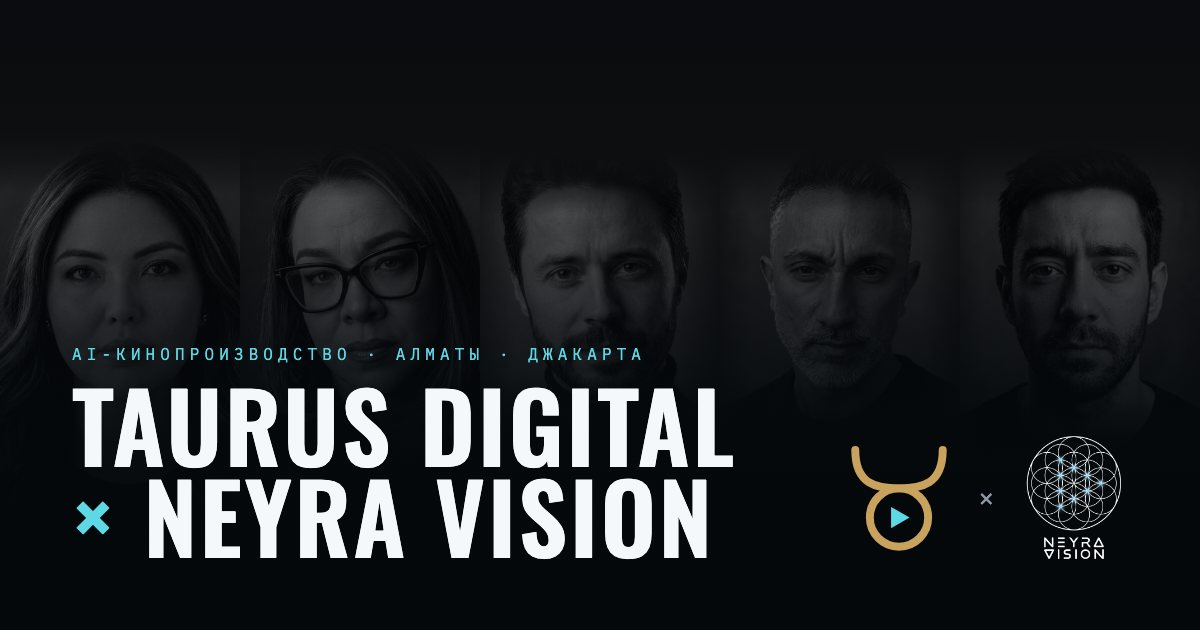
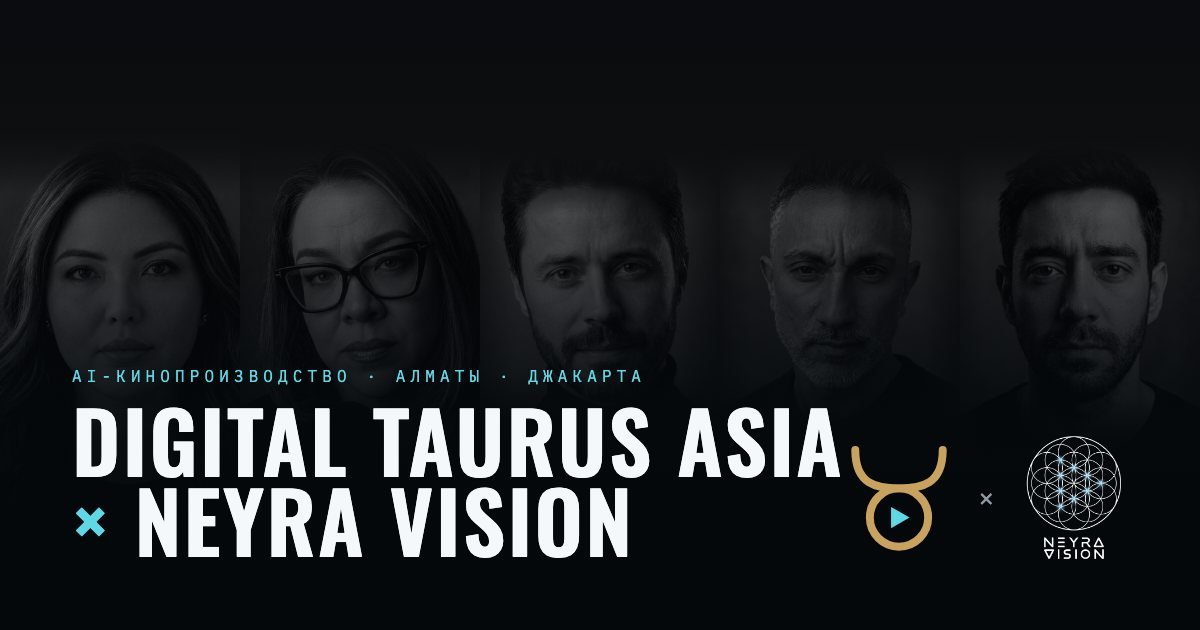
Бренд переименован: Digital Taurus Asia (везде на /team/, OG-картинка, лок-апы логотипа)

Changed region(s): [[0.0617, 0.5429, 0.7092, 0.9048]]

diff --git a/team/index.html b/team/index.html
@@ -3,11 +3,11 @@
 <head>
 <meta charset="utf-8">
 <meta name="viewport" content="width=device-width, initial-scale=1">
-<title>Taurus Digital × Neyra Vision</title>
-<meta name="description" content="Кино, сериалы и реклама, где живые съёмки и AI-производство идут в одном графике и бюджете. Taurus Digital (Алматы) и Neyra Vision — команда, фильмы, как работаем.">
-<meta property="og:title" content="Taurus Digital × Neyra Vision">
+<title>Digital Taurus Asia × Neyra Vision</title>
+<meta name="description" content="Кино, сериалы и реклама, где живые съёмки и AI-производство идут в одном графике и бюджете. Digital Taurus Asia (Алматы) и Neyra Vision — команда, фильмы, как работаем.">
+<meta property="og:title" content="Digital Taurus Asia × Neyra Vision">
 <meta property="og:description" content="Живые съёмки и AI-производство в одной команде. Алматы · Джакарта.">
-<meta property="og:image" content="https://neyra.vision/team/assets/og-team.jpg">
+<meta property="og:image" content="https://neyra.vision/team/assets/og-team.jpg?v=2">
 <meta property="og:url" content="https://neyra.vision/team/">
 <meta name="twitter:card" content="summary_large_image">
 <meta name="robots" content="noindex">
@@ -47,7 +47,7 @@
   .bar nav a{text-decoration:none;transition:color .2s}
   .bar nav a:hover{color:var(--paper)}
   @media (max-width:860px){.bar nav a:not([href="#contact"]){display:none}}
-  @media (max-width:520px){.bar .brand{letter-spacing:.2em;font-size:12.5px}.bar .brand b{display:none}}
+  @media (max-width:520px){.bar .brand{letter-spacing:.14em;font-size:11.5px}.bar .brand b{display:none}}
 
   /* ===== HERO ===== */
   .hero{position:relative;min-height:88svh;display:flex;align-items:flex-end;isolation:isolate;overflow:hidden;padding-top:90px}
@@ -58,9 +58,11 @@
       linear-gradient(180deg,rgba(5,8,11,.7) 0%,rgba(5,8,11,.35) 30%,rgba(5,8,11,.9) 72%,var(--ink) 100%)}
   .hero .inner{width:100%;max-width:1180px;margin:0 auto;padding:0 24px 8vh}
   .kicker{font-family:var(--mono);font-size:12px;letter-spacing:.32em;text-transform:uppercase;color:var(--mute)}
-  .hero h1{font-family:var(--disp);font-weight:600;font-size:clamp(46px,9.4vw,138px);line-height:.92;letter-spacing:.03em;text-transform:uppercase;margin:16px 0 18px;color:#f4f8fa}
+  .hero h1{font-family:var(--disp);font-weight:600;font-size:clamp(40px,8vw,118px);line-height:.92;letter-spacing:.03em;text-transform:uppercase;margin:16px 0 18px;color:#f4f8fa}
   .hero h1 .x{color:var(--cyan);font-weight:400}
-  .hero h1 > span{display:block}
+  .hero h1 > span{display:block;white-space:nowrap}
+  .hero h1 .sp{display:inline}
+  @media (max-width:560px){.hero h1 > span{white-space:normal}.hero h1 .sp{display:block;height:0}}
   .logline{max-width:40em;font-size:clamp(17px,2vw,21px);color:#d3dbe0}
 
   /* ===== STRUCTURE ===== */
@@ -244,7 +246,7 @@
 <body class="no-js grain">
 
 <div class="bar">
-  <a class="brand" href="#top"><img src="assets/td-znak.svg" alt=""><span>TAURUS DIGITAL <b>× NEYRA VISION</b></span></a>
+  <a class="brand" href="#top"><img src="assets/td-znak.svg" alt=""><span>DIGITAL TAURUS ASIA <b>× NEYRA VISION</b></span></a>
   <nav>
     <a href="#structure">Компании</a>
     <a href="#how">Как работаем</a>
@@ -261,10 +263,10 @@
   <div class="scrim"></div>
   <div class="inner">
     <div class="kicker">AI-кинопроизводство · Алматы · Джакарта · Сингапур</div>
-    <h1><span>Taurus Digital</span><span><span class="x">×</span> Neyra Vision</span></h1>
+    <h1><span>Digital<i class="sp"> </i>Taurus Asia</span><span><span class="x">×</span> Neyra Vision</span></h1>
     <div class="hbot">
-      <p class="logline">Кино, сериалы и реклама, где живые съёмки и AI-производство идут в одном графике и одном бюджете. Taurus Digital (Алматы) — продюсерский блок и съёмки. Neyra Vision — превиз, генерация и постпродакшн по технологии NEYRA.</p>
-      <div class="marks"><img src="assets/td-znak.svg" alt="Taurus Digital" width="96" height="100"><span class="x">×</span><img src="/assets/logo-neyra-vision.png" alt="Neyra Vision" width="120" height="120" class="nv"></div>
+      <p class="logline">Кино, сериалы и реклама, где живые съёмки и AI-производство идут в одном графике и одном бюджете. Digital Taurus Asia (Алматы) — продюсерский блок и съёмки. Neyra Vision — превиз, генерация и постпродакшн по технологии NEYRA.</p>
+      <div class="marks"><img src="assets/td-znak.svg" alt="Digital Taurus Asia" width="96" height="100"><span class="x">×</span><img src="/assets/logo-neyra-vision.png" alt="Neyra Vision" width="120" height="120" class="nv"></div>
     </div>
   </div>
 </header>
@@ -274,12 +276,12 @@
     <div class="rv">
       <div class="eyebrow">Две компании</div>
       <h2>Одна команда</h2>
-      <p class="lead">Taurus Digital — продюсерский блок: полный метр и сериалы, фонды и прокат. Neyra Vision — технология, AI-цех и международный опыт.</p>
+      <p class="lead">Digital Taurus Asia — продюсерский блок: полный метр и сериалы, фонды и прокат. Neyra Vision — технология, AI-цех и международный опыт.</p>
     </div>
     <div class="duo rv">
       <div class="co">
         <img src="assets/td-znak.svg" alt="" width="72" height="75">
-        <div class="nm">Taurus Digital</div>
+        <div class="nm">Digital Taurus Asia</div>
         <div class="tg">ТОО · Алматы · AI-продакшн</div>
         <p>AI-производство кино и видео в Казахстане. В связке — продюсерская компания <b>Taurus Asia Production</b>: «Приговор», «Қара бекіре», «Шекер», живые съёмки, фонды и прокат.</p>
         <p>Технологическая основа — платформа NEYRA по лицензии Neyra Labs.</p>
@@ -473,7 +475,7 @@
 
     <!-- Leadership -->
     <div class="grp">
-      <div class="grp-h"><h3>Руководство</h3><span>Taurus Digital × Neyra Vision</span></div>
+      <div class="grp-h"><h3>Руководство</h3><span>Digital Taurus Asia × Neyra Vision</span></div>
       <div class="people lead3">
         <div class="p">
           <div class="ph"><img src="assets/lead-anna-chakirtova.jpg" alt="Анна Чакиртова" width="720" height="720" loading="lazy"></div>
@@ -659,7 +661,7 @@
     <h2>Обсудить проект</h2>
     <p class="lead">Пришлите логлайн или сценарий, бюджетную вилку и сроки. Ответим, что можно сделать, с ориентиром по срокам и смете.</p>
     <div class="partners">
-      <img src="assets/td-znak.svg" alt="Taurus Digital" width="62" height="64"><span class="x">×</span><img src="/assets/logo-neyra-vision.png" alt="Neyra Vision" width="64" height="64">
+      <img src="assets/td-znak.svg" alt="Digital Taurus Asia" width="62" height="64"><span class="x">×</span><img src="/assets/logo-neyra-vision.png" alt="Neyra Vision" width="64" height="64">
     </div>
     <div class="btns">
       <a class="btn" href="https://t.me/mis_ter_bro" target="_blank" rel="noopener">Написать в Telegram</a>
@@ -671,7 +673,7 @@
 
 <footer>
   <div class="wrap">
-    <div class="fcol"><b>Taurus Digital</b><span>ТОО · Алматы · AI-производство кино и видео</span></div>
+    <div class="fcol"><b>Digital Taurus Asia</b><span>ТОО «Digital Taurus Asia» · Алматы · AI-производство кино и видео</span></div>
     <div class="fcol"><b>Neyra Vision Studio</b><span>Джакарта · Алматы · технология NEYRA</span></div>
     <div class="fcol"><b>Ссылки</b><span><a href="/">neyra.vision</a> · <a href="https://neyra.ai" target="_blank" rel="noopener">neyra.ai</a> · <a href="https://colibristudio.ai" target="_blank" rel="noopener">colibristudio.ai</a></span></div>
   </div>

diff --git a/brand/taurus-digital/v4/sheet.html b/brand/taurus-digital/v4/sheet.html
@@ -1,0 +1,23 @@
+<!doctype html><html lang="ru"><head><meta charset="utf-8"><title>Digital Taurus Asia · v4</title>
+<link rel="stylesheet" href="https://fonts.googleapis.com/css2?family=Oswald:wght@500;600&family=IBM+Plex+Mono&family=Space+Grotesk:wght@500;700&display=swap">
+<style>body{margin:0;background:#05080b;color:#EDE6DA;font-family:"IBM Plex Mono"}
+.g{display:grid;grid-template-columns:1fr 1fr;gap:1px;background:#1d2731}.c{background:#0b1016;padding:36px;display:flex;flex-direction:column;align-items:center;justify-content:center;gap:16px;min-height:380px}
+.c.l{background:#EDE6DA;color:#1B1A18}.k{font-size:11px;letter-spacing:.22em;color:#8d99a3;align-self:flex-start}.c.l .k{color:#6b645a}
+.big{height:260px}.lock{display:flex;align-items:center;gap:34px}.lock img{height:150px}
+.wm{font-family:"Space Grotesk";font-weight:700;font-size:64px;letter-spacing:.06em;line-height:.95}.wm small{display:block;font-family:"IBM Plex Mono";font-weight:400;font-size:16px;letter-spacing:.55em;margin-top:8px;color:#B0865A}
+.row{display:flex;gap:40px;align-items:center}.row img{display:block}.cap{font-size:11px;color:#8d99a3;margin-top:6px;text-align:center}
+.fav{display:flex;gap:28px;align-items:flex-end}.fav div{text-align:center}
+.ref{height:170px;background:#fff;padding:10px}
+</style></head><body><div class="g">
+<div class="c"><div class="k">ЗНАК · БРОНЗА НА ГРАФИТЕ</div><img class="big" src="td-znak-bronza-na-temnom.svg"></div>
+<div class="c l"><div class="k">ЗНАК · НЕГАТИВ НА КОСТИ</div><img class="big" src="td-znak-cherny-na-belom.svg"></div>
+<div class="c"><div class="k">ЛОК-АП</div><div class="lock"><img src="td-znak-bronza-na-temnom.svg"><div class="wm">DIGITAL TAURUS<br>ASIA<small>AI FILM PRODUCTION</small></div></div></div>
+<div class="c"><div class="k">МОНОХРОМ ДЛЯ ТИТРОВ · ЧИТАЕМОСТЬ</div><div class="fav">
+<div><img src="td-znak-bely.svg" style="height:16px"><div class="cap">16</div></div>
+<div><img src="td-znak-bely.svg" style="height:24px"><div class="cap">24</div></div>
+<div><img src="td-znak-bely.svg" style="height:32px"><div class="cap">32</div></div>
+<div><img src="td-znak-bely.svg" style="height:48px"><div class="cap">48</div></div>
+<div><img src="td-znak-bely.svg" style="height:96px"><div class="cap">96</div></div></div></div>
+<div class="c"><div class="k">РЯДОМ С TAURUS ASIA PRODUCTION</div><div class="row"><img class="ref" src="../v3/ref-taurus-asia.webp"><img src="td-znak-bronza-na-temnom.svg" style="height:190px"></div></div>
+<div class="c"><div class="k">ИДЕНТ · ОДНА ЛИНИЯ РИСУЕТСЯ 3 С</div><svg viewBox="40 20 320 390" style="height:260px"><path id="p" d="" fill="none" stroke="#B0865A" stroke-width="22" stroke-linejoin="round" pathLength="1" stroke-dasharray="1" stroke-dashoffset="1"><animate attributeName="stroke-dashoffset" from="1" to="0" dur="2.4s" fill="freeze" calcMode="spline" keySplines=".16 1 .3 1"/></path><g id="reel" opacity="0"><animate attributeName="opacity" from="0" to="1" begin="2.2s" dur=".5s" fill="freeze"/><circle cx="200" cy="139.2" r="66" fill="#B0865A"/><circle cx="170.3" cy="109.5" r="19.1" fill="#0b1016"/><circle cx="229.7" cy="109.5" r="19.1" fill="#0b1016"/><circle cx="170.3" cy="168.9" r="19.1" fill="#0b1016"/><circle cx="229.7" cy="168.9" r="19.1" fill="#0b1016"/><circle cx="200" cy="139.2" r="5.9" fill="#0b1016"/></g></svg></div>
+</div><script>fetch('path.txt').then(r=>r.text()).then(d=>{document.getElementById('p').setAttribute('d',d)})</script></body></html>

diff --git a/brand/taurus-digital/v5/sheet.html b/brand/taurus-digital/v5/sheet.html
@@ -1,0 +1,11 @@
+<!doctype html><html lang="ru"><head><meta charset="utf-8"><title>Digital Taurus Asia · vesica</title>
+<link rel="stylesheet" href="https://fonts.googleapis.com/css2?family=Space+Grotesk:wght@700&family=IBM+Plex+Mono&display=swap">
+<style>body{margin:0;background:#05080b;color:#EDE6DA;font-family:"IBM Plex Mono"}.g{display:grid;grid-template-columns:repeat(3,1fr);gap:1px;background:#1d2731}
+.c{background:#0b1016;padding:30px 20px 36px;display:flex;flex-direction:column;align-items:center;gap:16px}.k{font-size:11px;letter-spacing:.22em;color:#8d99a3}
+.pair{display:flex;align-items:center;gap:22px}.pair img{height:230px}.pair .nv{height:250px;margin:-18px}
+.wm{font-family:"Space Grotesk";font-weight:700;font-size:30px;letter-spacing:.06em;line-height:.95;text-align:center}.wm small{display:block;font-family:"IBM Plex Mono";font-weight:400;font-size:10px;letter-spacing:.5em;margin-top:6px;color:#B0865A}
+.sm{display:flex;gap:18px;align-items:flex-end}.sm div{text-align:center;font-size:10px;color:#8d99a3}.sm img{display:block;margin:0 auto 4px}</style></head><body><div class="g">
+<div class="c"><div class="k">V1 · ДВА КРУГА · ЦВЕТОК В VESICA СЕРЕБРОМ</div><div class="pair"><img src="td-V1-vesica-serebro.svg"><img class="nv" src="/assets/logo-neyra-vision.png"></div><div class="wm">DIGITAL TAURUS ASIA<small>AI FILM PRODUCTION</small></div><div class="sm"><div><img src="td-V1-vesica-serebro.svg" style="height:24px">24</div><div><img src="td-V1-vesica-serebro.svg" style="height:40px">40</div><div><img src="td-V1-vesica-serebro.svg" style="height:72px">72</div></div></div>
+<div class="c"><div class="k">V2 · ДВА КРУГА · ЦВЕТОК ЗОЛОТОМ</div><div class="pair"><img src="td-V2-vesica-zoloto.svg"><img class="nv" src="/assets/logo-neyra-vision.png"></div><div class="wm">DIGITAL TAURUS ASIA<small>AI FILM PRODUCTION</small></div><div class="sm"><div><img src="td-V2-vesica-zoloto.svg" style="height:24px">24</div><div><img src="td-V2-vesica-zoloto.svg" style="height:40px">40</div><div><img src="td-V2-vesica-zoloto.svg" style="height:72px">72</div></div></div>
+<div class="c"><div class="k">V3 · ДВА КРУГА · VESICA КОНТУРОМ, ТРИ УЗЛА</div><div class="pair"><img src="td-V3-vesica-tiho.svg"><img class="nv" src="/assets/logo-neyra-vision.png"></div><div class="wm">DIGITAL TAURUS ASIA<small>AI FILM PRODUCTION</small></div><div class="sm"><div><img src="td-V3-vesica-tiho.svg" style="height:24px">24</div><div><img src="td-V3-vesica-tiho.svg" style="height:40px">40</div><div><img src="td-V3-vesica-tiho.svg" style="height:72px">72</div></div></div>
+</div></body></html>

diff --git a/brand/taurus-digital/v3/preview.html b/brand/taurus-digital/v3/preview.html
@@ -1,0 +1,12 @@
+<!doctype html><html lang="ru"><head><meta charset="utf-8"><title>Digital Taurus Asia v3</title>
+<link rel="stylesheet" href="https://fonts.googleapis.com/css2?family=Oswald:wght@500;600&family=IBM+Plex+Mono&display=swap">
+<style>body{margin:0;background:#05080b;color:#e9eef1;font-family:"IBM Plex Mono"}.row{display:grid;grid-template-columns:repeat(3,1fr);gap:1px;background:#1d2731}
+.c{background:#0b1016;padding:28px 18px;display:flex;flex-direction:column;align-items:center;gap:12px}.k{font-size:11px;letter-spacing:.2em;color:#8d99a3}
+.pair{display:flex;align-items:center;gap:18px}.pair img{height:180px}.pair .nv{height:200px;margin:-16px}.pair .ta{height:150px}
+.wm{font-family:Oswald;font-weight:600;letter-spacing:.3em;font-size:22px}.wm small{display:block;font-size:10px;letter-spacing:.5em;color:#c9a25e;margin-top:6px;font-family:"IBM Plex Mono"}
+.sm{display:flex;gap:16px;align-items:center}.sm img{height:36px}.w{background:#efe9df;color:#1a1712}</style></head><body>
+<div class="row">
+<div class="c"><div class="k">1 · TAURUS ASIA + PLAY NEYRA</div><div class="pair"><img src="td-1-asia-plus-play.svg"><img class="nv" src="/assets/logo-neyra-vision.png"></div><div class="wm">DIGITAL TAURUS<small>ASIA</small></div><div class="sm"><img src="td-1-asia-plus-play.svg"><span>36px</span></div></div>
+<div class="c"><div class="k">2 · ПЛОСКОЕ ЗОЛОТО</div><div class="pair"><img src="td-2-flat-gold.svg"><img class="ta" src="ref-taurus-asia.webp"></div><div class="wm">DIGITAL TAURUS<small>ASIA</small></div><div class="sm"><img src="td-2-flat-gold.svg"><span>36px</span></div></div>
+<div class="c"><div class="k">3 · БЕЗ КАТУШКИ</div><div class="pair"><img src="td-3-bez-katushki.svg"><img class="nv" src="/assets/logo-neyra-vision.png"></div><div class="wm">DIGITAL TAURUS<small>ASIA</small></div><div class="sm"><img src="td-3-bez-katushki.svg"><span>36px</span></div></div>
+</div></body></html>

diff --git a/brand/taurus-digital/v2/preview3.html b/brand/taurus-digital/v2/preview3.html
@@ -1,0 +1,11 @@
+<!doctype html><html lang="ru"><head><meta charset="utf-8"><title>Digital Taurus Asia · play</title>
+<link rel="stylesheet" href="https://fonts.googleapis.com/css2?family=Oswald:wght@500&family=IBM+Plex+Mono&display=swap">
+<style>body{margin:0;background:#05080b;color:#e9eef1;font-family:"IBM Plex Mono"}.row{display:grid;grid-template-columns:repeat(3,1fr);gap:1px;background:#1d2731}
+.c{background:#0b1016;padding:30px 20px;display:flex;flex-direction:column;align-items:center;gap:14px}.k{font-size:11px;letter-spacing:.2em;color:#8d99a3}
+.pair{display:flex;align-items:center;gap:18px}.pair img{height:160px}.pair .nv{height:190px;margin:-16px}
+.wm{font-family:Oswald;letter-spacing:.32em;font-size:22px}.wm small{display:block;font-size:10px;letter-spacing:.5em;color:#c9a25e;margin-top:6px;font-family:"IBM Plex Mono"}
+.sm{display:flex;gap:16px;align-items:center}.sm img{height:36px}</style></head><body><div class="row">
+<div class="c"><div class="k">N1 · ЦВЕТОК NEYRA СЕРЕБРОМ + PLAY</div><div class="pair"><img src="td-N1-cvetok-serebro.svg"><img class="nv" src="/assets/logo-neyra-vision.png"></div><div class="wm">DIGITAL TAURUS<small>ASIA</small></div><div class="sm"><img src="td-N1-cvetok-serebro.svg"><span>36px</span></div></div>
+<div class="c"><div class="k">N2 · ЦВЕТОК ЗОЛОТОМ + PLAY</div><div class="pair"><img src="td-N2-cvetok-zoloto.svg"><img class="nv" src="/assets/logo-neyra-vision.png"></div><div class="wm">DIGITAL TAURUS<small>ASIA</small></div><div class="sm"><img src="td-N2-cvetok-zoloto.svg"><span>36px</span></div></div>
+<div class="c"><div class="k">N3 · ЦВЕТОК ДО КРАЯ + PLAY</div><div class="pair"><img src="td-N3-cvetok-do-kraya.svg"><img class="nv" src="/assets/logo-neyra-vision.png"></div><div class="wm">DIGITAL TAURUS<small>ASIA</small></div><div class="sm"><img src="td-N3-cvetok-do-kraya.svg"><span>36px</span></div></div>
+</div></body></html>

diff --git a/brand/taurus-digital/v2/preview.html b/brand/taurus-digital/v2/preview.html
@@ -1,0 +1,11 @@
+<!doctype html><html lang="ru"><head><meta charset="utf-8"><title>Digital Taurus Asia v2</title>
+<link rel="stylesheet" href="https://fonts.googleapis.com/css2?family=Oswald:wght@500&family=IBM+Plex+Mono&display=swap">
+<style>body{margin:0;background:#05080b;color:#e9eef1;font-family:"IBM Plex Mono"}.row{display:grid;grid-template-columns:repeat(3,1fr);gap:1px;background:#1d2731}
+.c{background:#0b1016;padding:30px 20px;display:flex;flex-direction:column;align-items:center;gap:14px}.k{font-size:11px;letter-spacing:.2em;color:#8d99a3}
+.pair{display:flex;align-items:center;gap:18px}.pair img{height:150px}.pair .nv{height:180px;margin:-16px}
+.wm{font-family:Oswald;letter-spacing:.32em;font-size:22px}.wm small{display:block;font-size:10px;letter-spacing:.5em;color:#c9a25e;margin-top:6px;font-family:"IBM Plex Mono"}
+.sm{display:flex;gap:16px;align-items:center}.sm img{height:36px}</style></head><body><div class="row">
+<div class="c"><div class="k">1 · СЕМЯ ЖИЗНИ</div><div class="pair"><img src="td-1-semya-zhizni.svg"><img class="nv" src="/assets/logo-neyra-vision.png"></div><div class="wm">DIGITAL TAURUS<small>ASIA</small></div><div class="sm"><img src="td-1-semya-zhizni.svg"><span>32px</span></div></div>
+<div class="c"><div class="k">2 · ЗОЛОТОЕ СЕЧЕНИЕ</div><div class="pair"><img src="td-2-zolotoe-sechenie.svg"><img class="nv" src="/assets/logo-neyra-vision.png"></div><div class="wm">DIGITAL TAURUS<small>ASIA</small></div><div class="sm"><img src="td-2-zolotoe-sechenie.svg"><span>32px</span></div></div>
+<div class="c"><div class="k">3 · ЦВЕТОК ЖИЗНИ</div><div class="pair"><img src="td-3-cvetok-zhizni.svg"><img class="nv" src="/assets/logo-neyra-vision.png"></div><div class="wm">DIGITAL TAURUS<small>ASIA</small></div><div class="sm"><img src="td-3-cvetok-zhizni.svg"><span>32px</span></div></div>
+</div></body></html>

diff --git a/brand/taurus-digital/v2/preview2.html b/brand/taurus-digital/v2/preview2.html
@@ -1,0 +1,11 @@
+<!doctype html><html lang="ru"><head><meta charset="utf-8"><title>Digital Taurus Asia · play</title>
+<link rel="stylesheet" href="https://fonts.googleapis.com/css2?family=Oswald:wght@500&family=IBM+Plex+Mono&display=swap">
+<style>body{margin:0;background:#05080b;color:#e9eef1;font-family:"IBM Plex Mono"}.row{display:grid;grid-template-columns:repeat(3,1fr);gap:1px;background:#1d2731}
+.c{background:#0b1016;padding:30px 20px;display:flex;flex-direction:column;align-items:center;gap:14px}.k{font-size:11px;letter-spacing:.2em;color:#8d99a3}
+.pair{display:flex;align-items:center;gap:18px}.pair img{height:160px}.pair .nv{height:190px;margin:-16px}
+.wm{font-family:Oswald;letter-spacing:.32em;font-size:22px}.wm small{display:block;font-size:10px;letter-spacing:.5em;color:#c9a25e;margin-top:6px;font-family:"IBM Plex Mono"}
+.sm{display:flex;gap:16px;align-items:center}.sm img{height:36px}</style></head><body><div class="row">
+<div class="c"><div class="k">A · PLAY + КОЛЬЦО УЗЛОВ</div><div class="pair"><img src="td-A-play-kolco.svg"><img class="nv" src="/assets/logo-neyra-vision.png"></div><div class="wm">DIGITAL TAURUS<small>ASIA</small></div><div class="sm"><img src="td-A-play-kolco.svg"><span>36px</span></div></div>
+<div class="c"><div class="k">B · PLAY + СЕМЯ ЖИЗНИ</div><div class="pair"><img src="td-B-play-semya.svg"><img class="nv" src="/assets/logo-neyra-vision.png"></div><div class="wm">DIGITAL TAURUS<small>ASIA</small></div><div class="sm"><img src="td-B-play-semya.svg"><span>36px</span></div></div>
+<div class="c"><div class="k">C · PLAY + СЕТКА NEYRA</div><div class="pair"><img src="td-C-play-setka.svg"><img class="nv" src="/assets/logo-neyra-vision.png"></div><div class="wm">DIGITAL TAURUS<small>ASIA</small></div><div class="sm"><img src="td-C-play-setka.svg"><span>36px</span></div></div>
+</div></body></html>

diff --git a/brand/taurus-digital/README.md b/brand/taurus-digital/README.md
@@ -1,4 +1,4 @@
-# Taurus Digital — знак (12.10.2026)
+# Digital Taurus Asia — знак (12.10.2026)
 
 Выбран вариант **B · «Линия + play»**: знак Тельца ♉ (преемственность с Taurus Asia Production) + треугольник play в круге (кино/цифра), акцент — циан Neyra Vision.
 Цвета: золото #c9a25e, циан #5fd8e6; на светлом — #1a1712 + #2aa7b6. Шрифты надписи: Oswald 500 (TAURUS), IBM Plex Mono (DIGITAL).
